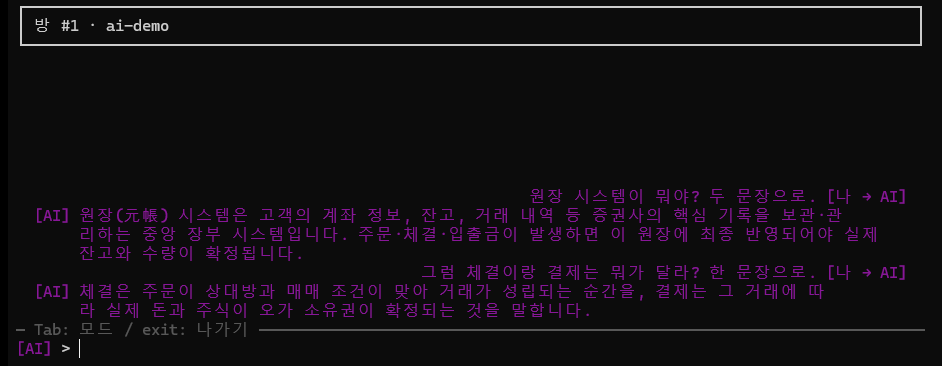
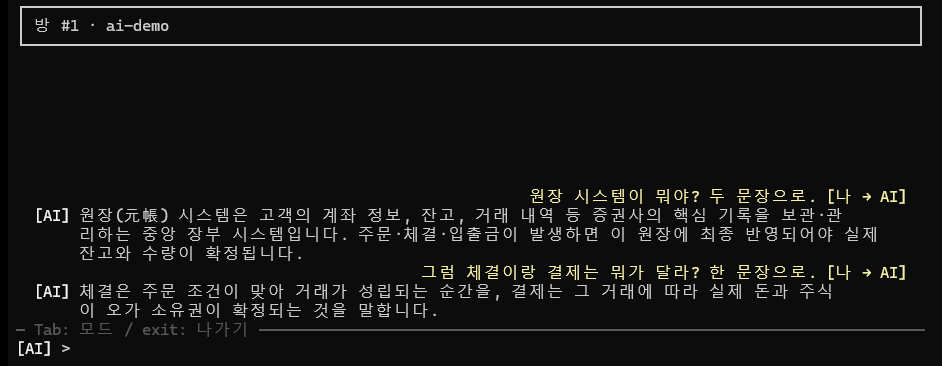
[ui] AI 채팅 색상 — 답변은 흰색 + 굵은 [AI] 태그, 내 질문은 밝은 노란색
자주색 답변 본문은 검정 배경에서 읽기 어려웠다. 답변은 기본색으로 두고 [AI] 태그만 굵게,
사용자 질문 줄([나 → AI])은 밝은 노란색(ANSI 93)으로 구분한다. AI 캡처도 새 색으로 교체.

Changed region(s): [[0.0308, 0.5109, 0.9851, 0.7213], [0.0308, 0.7213, 0.9851, 0.8716], [0.0, 0.9317, 0.0616, 0.9918]]

diff --git a/Client/ClientApp.cpp b/Client/ClientApp.cpp
@@ -123,7 +123,7 @@ namespace
 		{
 		case ChatMode::Shout:   Tag = "\033[38;5;208m[확성기]\033[0m"; break;
 		case ChatMode::Whisper: Tag = "\033[36m[귓속말]\033[0m";       break;
-		case ChatMode::AI:      Tag = "\033[35m[AI]\033[0m";           break;
+		case ChatMode::AI:      Tag = "\033[1m[AI]\033[0m";            break;
 		default: break;
 		}
 		ConsoleUI::MoveCursor(ChatPromptRow(), 1);
@@ -738,7 +738,7 @@ void ClientApp::ChatLoop()
 				SessionPtr_->Send(ServerPacketHandler::MakeSendBuffer(AiPkt));
 
 				// 로컬 에코 — 본인 발신이라 오른쪽. 응답은 S_AI_CHAT 조각이 오는 대로 왼쪽에 흐른다.
-				PrintChatMessage("\033[35m" + Input + " [나 → AI]\033[0m", true);
+				PrintChatMessage("\033[93m" + Input + " [나 → AI]\033[0m", true);   // 내 질문은 밝은 노란색
 			}
 			else // Whisper
 			{

diff --git a/Client/ServerPacketHandler.cpp b/Client/ServerPacketHandler.cpp
@@ -297,7 +297,8 @@ namespace
 
 	String AiLineText(const String& Line)
 	{
-		return String("\033[35m") + (GAiFirstLine ? "[AI] " : "     ") + Line + "\033[0m";
+		// 답변 본문은 기본색(흰색). [AI] 태그만 굵게 — 자주색은 검정 배경에서 읽기 어려웠다.
+		return (GAiFirstLine ? String("\033[1m[AI]\033[0m ") : String("     ")) + Line;
 	}
 
 	// 줄 하나를 확정한다. 부분 줄이 그려져 있으면 그 행을 최종 텍스트로 덮어쓰고, 아니면 새 행에 찍는다.
